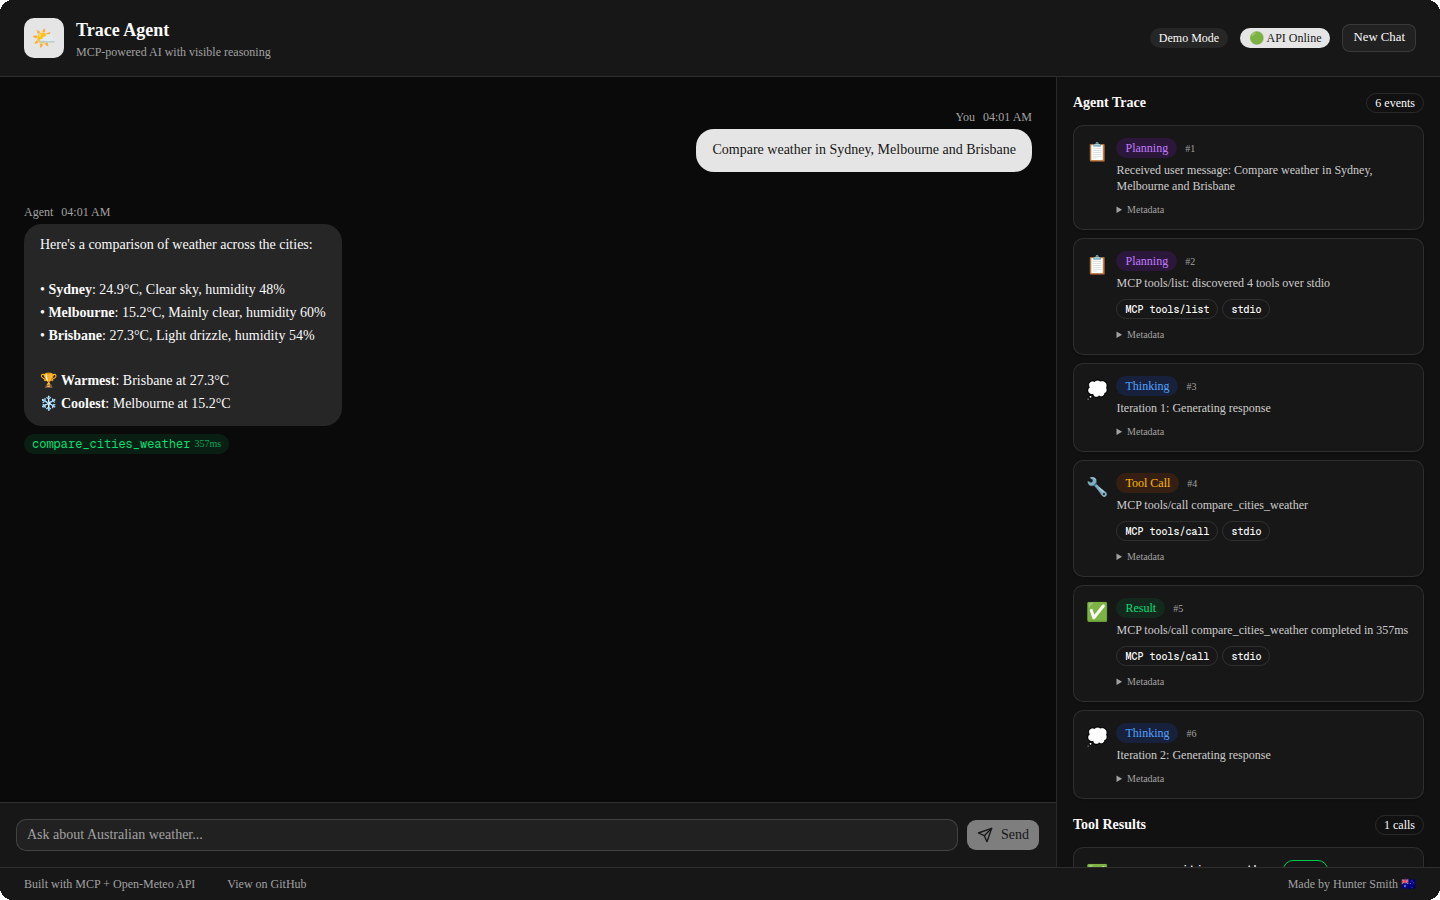
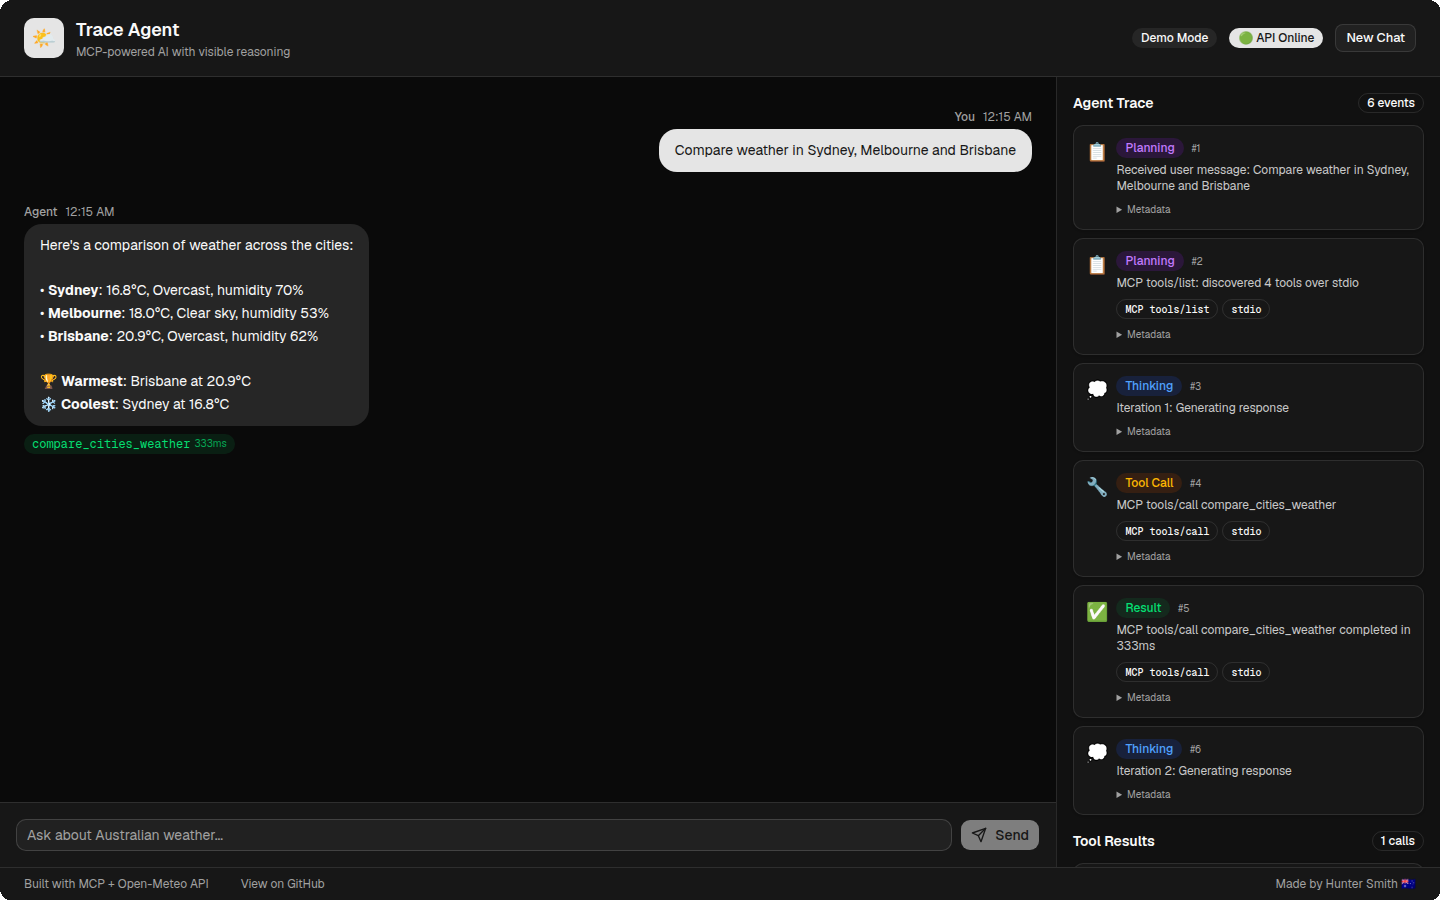
Point UI sans font at Geist instead of a self-reference (#8)
* Point --font-sans at Geist instead of itself

--font-sans: var(--font-sans) was self-referential, so the UI
fell back to the browser serif. layout.tsx already defines
--font-geist-sans (and --font-geist-mono, which --font-mono
already used).

* Put Geist CSS variables on html so font-sans can see them

next/font defined --font-geist-sans on body, but html applies
font-sans and @theme --font-sans resolves from the root. The
self-reference fix alone still fell back to Times.

* Re-record demo GIF and compare shot after the Geist font fix

Real DEMO_MODE run in Chrome: Sydney weather for the GIF (populated
first frame, expanded tools/call metadata and Tool Results) and the
Sydney/Melbourne/Brisbane compare prompt at 1440x900 with 12px
rounded corners.

---------

diff --git a/web/src/app/layout.tsx b/web/src/app/layout.tsx
@@ -26,10 +26,11 @@ export default function RootLayout({
   children: React.ReactNode;
 }>) {
   return (
-    <html lang="en" className="dark">
-      <body
-        className={`${geistSans.variable} ${geistMono.variable} antialiased`}
-      >
+    <html
+      lang="en"
+      className={`dark ${geistSans.variable} ${geistMono.variable}`}
+    >
+      <body className="antialiased">
         {children}
       </body>
     </html>

diff --git a/web/src/app/globals.css b/web/src/app/globals.css
@@ -6,7 +6,7 @@
 @theme inline {
   --color-background: var(--background);
   --color-foreground: var(--foreground);
-  --font-sans: var(--font-sans);
+  --font-sans: var(--font-geist-sans);
   --font-mono: var(--font-geist-mono);
   --font-heading: var(--font-sans);
   --color-sidebar-ring: var(--sidebar-ring);
